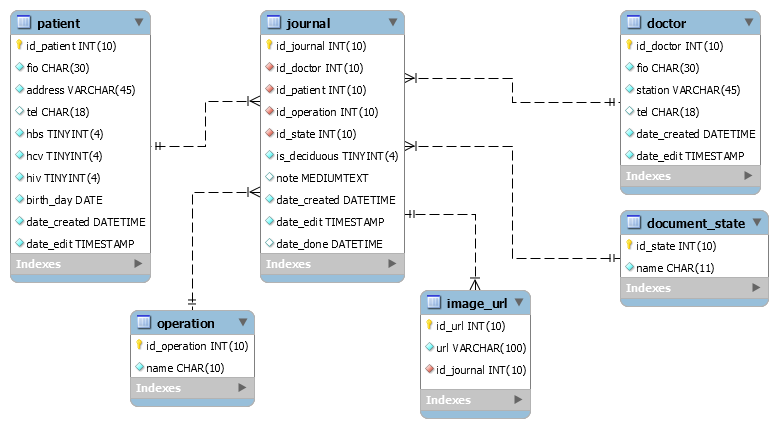
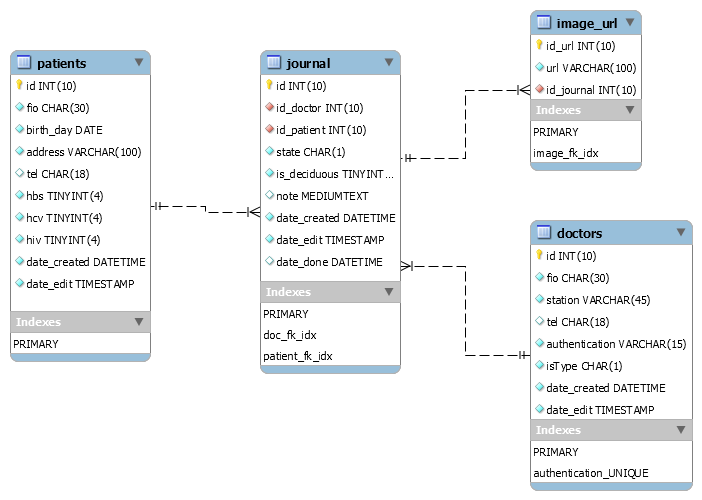
bank3

diff --git a/client/src/components/manipulation/input-file.js b/client/src/components/manipulation/input-file.js
@@ -1,53 +1,57 @@
 import React, { Component } from 'react'
+import './input-file.css'
+import path from 'path'
+import { addImg } from '../../services/server-service'
 
-export default class InputFile extends Component {
 
-    state = {
-        selectedFile: null,
-        // selectedFile: [],
-        file: null
-    }
-
-    onChange=(e)=> {
-
+export default class InputFile extends Component {   
     
-    const data = new FormData(e.target.parentElement);
-    const method = "POST";
-    fetch("http://localhost:3211/file", { method: 'POST', body: data })
-        .then((res) => console.log(res))
-        .catch((err) => console.error(err))
+   
+    onChange = (e) => {
+        
+        const {id}=this.props
+        const data = new FormData(e.target.parentElement);
+        const myFile=id+Date.now() + path.extname(e.target.value);
 
-       
-        // this.setState({ file: e.target.files[0] })
+        addImg({body: data, id: id, myFile: myFile })
+            .then((res) => console.log(res))
+            .catch((err) => console.error(err))
+            
+
+
     }
 
     onSubmitForm = (e) => {
         e.preventDefault();
-        console.log('safadsfsadgdfsgdfsgdfsgsdfgdfs');
-        const data = new FormData(e.target);
-        const method = "POST";
-        fetch("http://localhost:3211/file", { method: 'POST', body: data })
-            .then((res) => console.log(res))
-            .catch((err) => console.error(err))
+        // const data = new FormData(e.target);
+        // const method = "POST";
+        // fetch("http://localhost:3211/file", { method: 'POST', body: data })
+        //     .then((res) => console.log(res))
+        //     .catch((err) => console.error(err))
 
     }
 
     render() {
         return (
-            <div>
-                <button onClick={()=>{document.getElementById('hack').click()}}>ok</button>
+            <div className="div-for-addDelImg">
+                <button
+                    onClick={() => { document.getElementById('hack').click() }}>Добавить
+                </button>
+                <button
+                    onClick={(arg) => console.log('del', arg)}>Удалить
+                </button>
 
                 <form id="uploadForm"
                     encType="multipart/form-data"
                     onSubmit={this.onSubmitForm}
-                    
+
                 >
                     <input id="hack"
-                    type="file" name="userFile" 
-                    style={{display:"none"}}
-                    
-                    onChange={this.onChange} 
-                    accept="image/jpeg,image/png,image/gif,image/jpg,image/bmp"
+                        type="file" name="userFile"
+                        style={{ display: "none" }}
+
+                        onChange={this.onChange}
+                        accept="image/jpeg,image/png,image/gif,image/jpg,image/bmp"
                     />
                     {/* <input type="submit" value="Upload File" name="submit" /> */}
                 </form>

diff --git a/client/src/components/manipulation/milk-teeth.js b/client/src/components/manipulation/milk-teeth.js
@@ -1,41 +1,42 @@
 import React from 'react'
 
-const MilkTeeth = () => {   
-        const createDiv = (firstSybol) => {
-            let btns = []
-            for (let index = 1; index < 7; index++) {
-                btns.push(
-                    <button
-                    style={{padding:'3px', width:'40px'}}
-                        key={index}
-                        className="my-btn">
-                        {firstSybol}({index})
+const MilkTeeth = () => {
+    const createDiv = (firstSybol) => {
+        let btns = []
+        const arr = ['I', 'II', 'III', 'IV', 'V'];
+        for (let index = 0; index < 5; index++) {
+            btns.push(
+                <button
+                    style={{ padding: '3px', width: '40px' }}
+                    key={index}
+                    className="my-btn">
+                    {firstSybol}({arr[index]})
                     </button>);
-            }
-            return btns
         }
-    
-        return (
+        return btns
+    }
+
+    return (
+        <div>
             <div>
-                <div>
-                    {createDiv('I')}
-                </div>
-                <div>
-                    {createDiv('II')}
-                </div>
-                <div>
-                    {createDiv('III')}
-                </div>
-                <div>
-                    {createDiv('IV')}
-                </div>
-               
-    
-    
+                {createDiv(1)}
             </div>
-        )
-    
-   
+            <div>
+                {createDiv(2)}
+            </div>
+            <div>
+                {createDiv(3)}
+            </div>
+            <div>
+                {createDiv(4)}
+            </div>
+
+
+
+        </div>
+    )
+
+
 
 }
 export default MilkTeeth;

diff --git a/service_sql_copy.js b/service_sql_copy.js
@@ -6,24 +6,32 @@ var path = require('path');
 const cors = require('cors');
 app.use(cors());
 
-var storage = multer.diskStorage({
-    destination: function(req, file, callback) {
-        mkdirp('./uploads', function(err) {
-            if (err) {
-                console.log(err.stack)
-            } else {
-                callback(null, './uploads');
-            }
-        })
-    },
-    filename: function(req, file, callback) {
-        callback(null, file.fieldname + '-' + Date.now() + path.extname(file.originalname));
-    }
-});
 
-app.post('/file', function(req, res) {
+
+
+const getStorage = (dirName, myFileName) => {
+    var storage = multer.diskStorage({
+        destination: function(req, file, callback) {
+            mkdirp(`./images/${dirName}`, function(err) {
+                if (err) {
+                    console.log(err.stack)
+                } else {
+                    callback(null, `./images/${dirName}`);
+                }
+            })
+        },
+        filename: function(req, file, callback) {
+            callback(null, myFileName);
+        }
+    });
+
+    return storage;
+
+}
+
+app.post('/file/:id/:myFile', function(req, res) {
     var upload = multer({
-        storage: storage,
+        storage: getStorage(req.params.id, req.params.myFile),
 
         fileFilter: function(req, file, callback) {
             var ext = path.extname(file.originalname);
@@ -35,9 +43,9 @@ app.post('/file', function(req, res) {
     }).single('userFile');
     upload(req, res, function(err) {
         if (err) {
-            return res.end("Error uploading file.");
+            res.end("Error uploading file.");
         }
-        res.end("File is uploaded");
+        res.end('file uploaded');
     });
 });
 

diff --git a/client/src/components/manipulation/manipulation.js b/client/src/components/manipulation/manipulation.js
@@ -14,7 +14,7 @@ import './manipulation.css';
 
 
 const Manipulation = ({ obj, history }) => {
-    // const [id, setId] = useState(obj.id);
+    const [id, setId] = useState(obj.id);
     // const [id_doctor, setId_doctor] = useState(obj.id_doctor);
     // const [doc_fio, setDoc_fio] = useState(obj.doc_fio);
     // const [id_patient, setId_patient] = useState(obj.id_patient);
@@ -71,7 +71,7 @@ const Manipulation = ({ obj, history }) => {
             </div>
             <div className="div-img-loader">
                 <div>
-                    <InputFile />
+                    <InputFile id={id}/>
                 </div>
             </div>
 
@@ -93,11 +93,6 @@ const Manipulation = ({ obj, history }) => {
                 <button onClick={onBtnClick}>back</button>
             </div>
         </div>
-
-
-
-
-
     )
 };
 

diff --git a/client/src/components/diagnoses/diagnoses.css b/client/src/components/diagnoses/diagnoses.css
@@ -1,6 +1,6 @@
 .div-for-rows table {
     font-size: .8rem;
-    width: 250;
+    width: 245px;
 }
 
 .div-for-rows {
@@ -8,11 +8,11 @@
     border: 1px solid #ccc;
     position: relative;
     overflow-y: auto;
-    height: 140px;
+    height: 136px;
 }
 
 .div-for-rows .table th {
-    padding: .20rem !important;
+    padding: .3rem !important;
     border-right: 1px solid #ccc;
 }
 

diff --git a/client/src/services/server-service.js b/client/src/services/server-service.js
@@ -90,6 +90,13 @@ const delJournal = (data) =>
         body: JSON.stringify(data)
     });
 
+const addImg = ({ body, id, myFile }) =>
+    fetch(`http://localhost:3211/file/${id}/${myFile}`, {
+        method: 'POST',
+        body: body
+
+    });
+
 
 export {
     getDoctors,
@@ -104,4 +111,5 @@ export {
     getJournal,
     getAllJournal,
     delJournal,
+    addImg,
 }

diff --git a/client/src/components/diagnoses/diagnoses.js b/client/src/components/diagnoses/diagnoses.js
@@ -60,7 +60,7 @@ const Diagnoses = () => {
 
     const [defaultColumnWidths] = useState([
         { columnName: 'code', width:  48},
-        { columnName: 'text', width: 198 }
+        { columnName: 'text', width: 197 }
     ]);
 
 

diff --git a/client/src/components/manipulation/input-file.css b/client/src/components/manipulation/input-file.css
@@ -1,0 +1,3 @@
+.div-for-addDelImg {
+    display: flex;
+}
